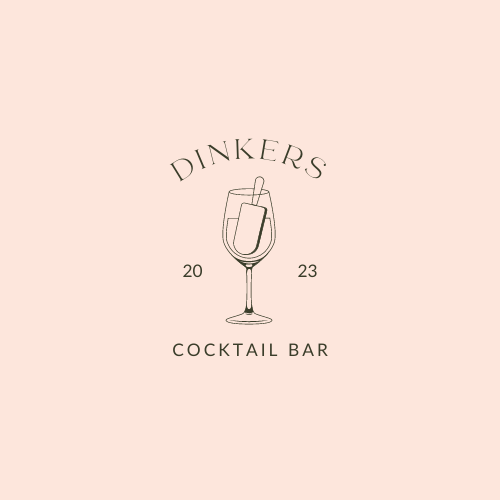
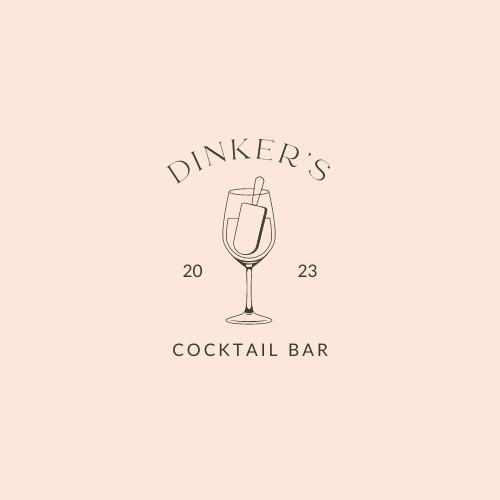
remove hr; remove footer; add apostrophe

Changed region(s): [[0.33, 0.27, 0.66, 0.36]]

diff --git a/index.html b/index.html
@@ -6,29 +6,25 @@
     <meta charset="utf-8">
     <meta name="viewport" content="width=device-width, initial-scale=1.0">
     <link rel="icon" href="images/favicon.ico">
-    <title>Dinkers Drinking Dranks
+    <title>dinker's cocktail bar
     </title>
     <link href="css/styles.css" rel="stylesheet">
 </head>
 
 <body>
     <div class="container">
-        <header class="header">
+        <img src="images/dinkers.png" alt="dink">
+        <!-- <header class="header">
             <img class="header__logo" src="images/dinkers.png" alt="dink">
             <div class="header__inner">
             </div>
-        </header>
-        <hr>
+        </header> -->
         <!-- Taiwan image <img class="body__image" src="images/IMG_6171.JPG" alt=""> -->
-
-        <hr>
-        <p>
-            <!-- "Hi, my name is Ashley Hui. When I'm on the pot, I'm a chili chef. When I'm not stirring sh*t up, I'm a Udacity nerd...learning how to react to all the Python flasks." &#45; <a href="https://www.linkedin.com/in/thisisandywang/">Andy Wang</a> -->
-        </p>
+        <!-- "Hi, my name is Ashley Hui. When I'm on the pot, I'm a chili chef. When I'm not stirring sh*t up, I'm a Udacity nerd...learning how to react to all the Python flasks." &#45; <a href="https://www.linkedin.com/in/thisisandywang/">Andy Wang</a> -->
     </div>
-    <footer class="footer">
+    <!-- <footer class="footer">
         <footer class="footer__quote">
-            <!-- "People wish to learn to swim and at the same time to keep one foot on the ground." -->
-        </footer>
+            "People wish to learn to swim and at the same time to keep one foot on the ground."
     </footer>
+    </footer> -->
 </body>
